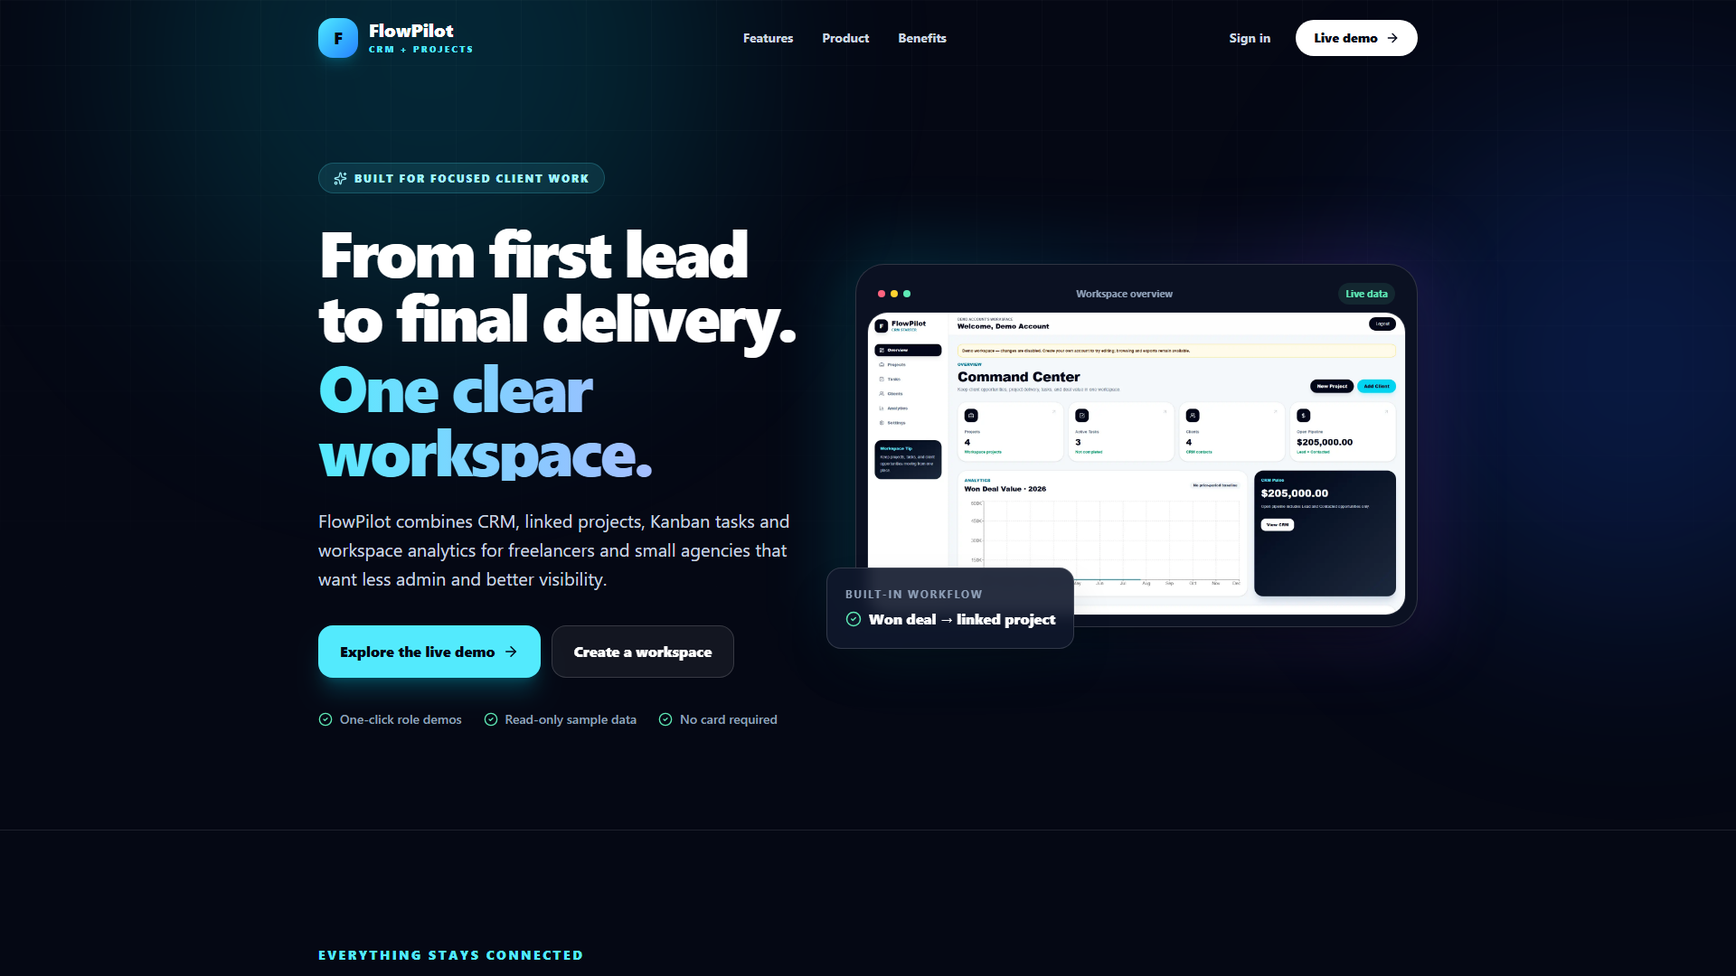
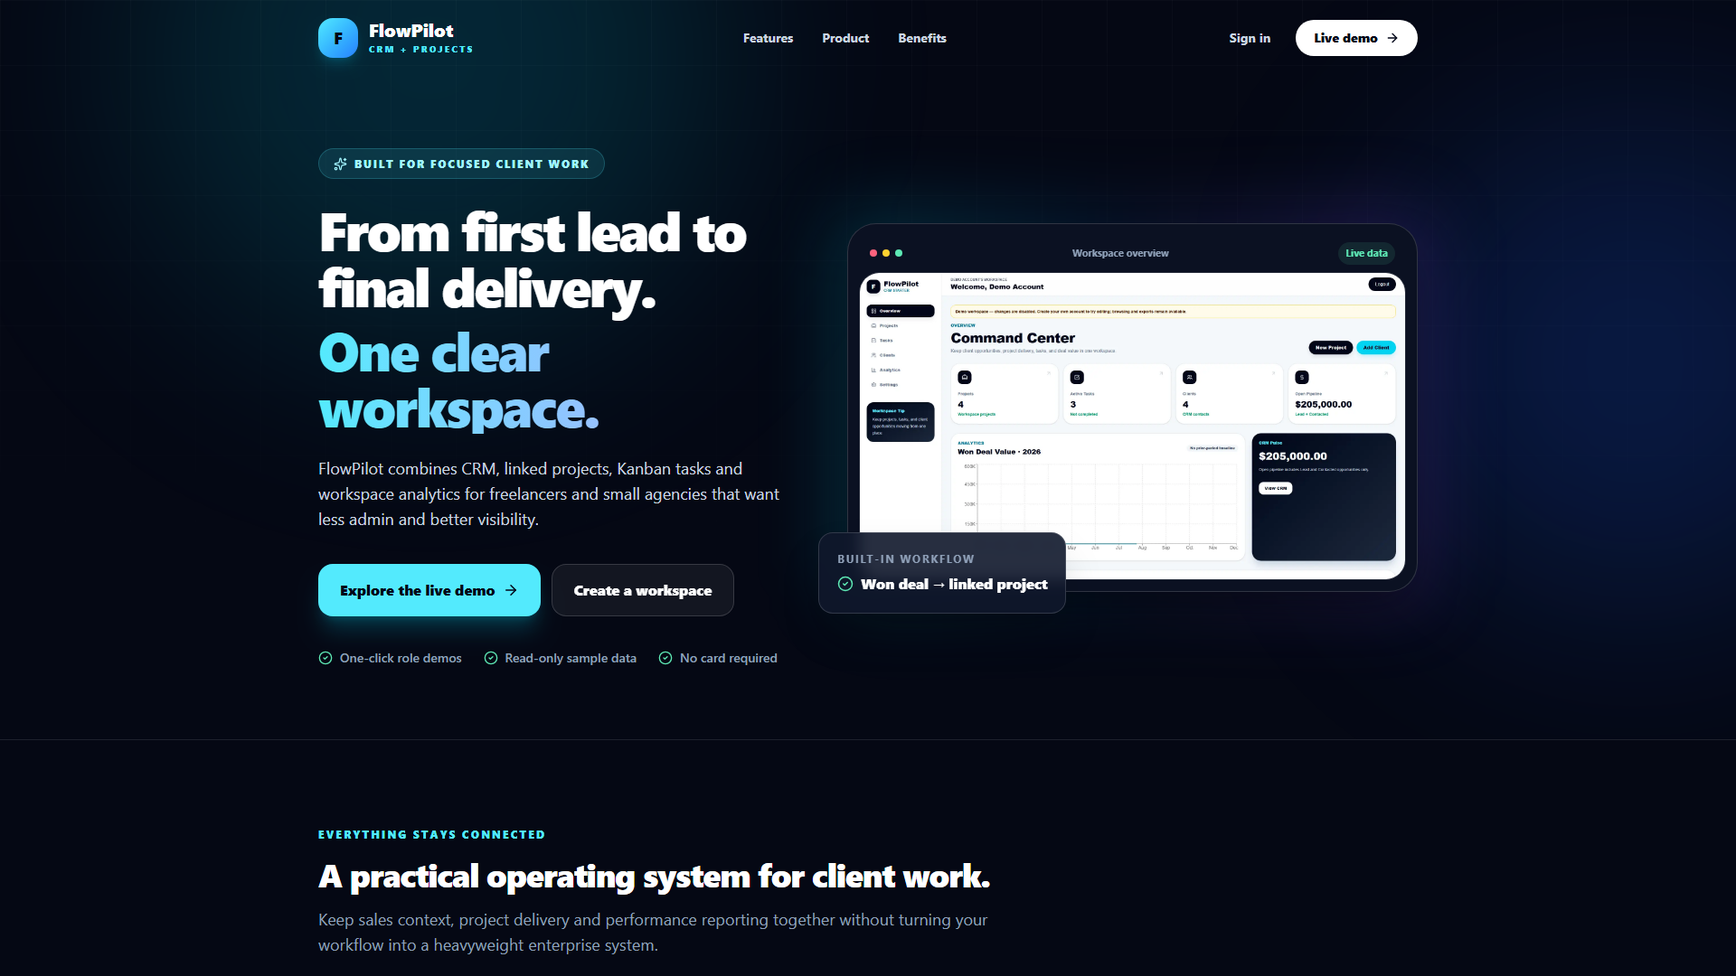
Refine UI density for Vibe96 review

Changed region(s): [[0.1562, 0.1528, 0.8125, 0.7639], [0.1875, 0.8861, 0.5625, 1.0], [0.1875, 0.825, 0.3125, 0.8556]]

diff --git a/src/app/page.tsx b/src/app/page.tsx
@@ -50,11 +50,11 @@ export default function HomePage() {
           </div>
         </header>
 
-        <section className="relative z-10 mx-auto grid max-w-7xl items-center gap-14 px-5 pb-20 pt-14 sm:px-8 sm:pb-28 sm:pt-20 lg:grid-cols-[0.92fr_1.08fr] lg:gap-16 lg:pt-24">
+        <section className="relative z-10 mx-auto grid max-w-7xl items-center gap-10 px-5 pb-16 pt-12 sm:px-8 sm:pb-20 sm:pt-16 lg:grid-cols-[0.92fr_1.08fr] lg:gap-12 lg:pt-20">
           <div>
             <div className="inline-flex items-center gap-2 rounded-full border border-cyan-300/20 bg-cyan-300/10 px-4 py-2 text-xs font-black uppercase tracking-[0.15em] text-cyan-200"><Sparkles size={15} /> Built for focused client work</div>
-            <h1 className="mt-7 max-w-3xl text-5xl font-black leading-[0.98] tracking-[-0.045em] sm:text-6xl lg:text-7xl">From first lead to final delivery.<span className="mt-2 block bg-gradient-to-r from-cyan-300 via-blue-300 to-violet-300 bg-clip-text text-transparent">One clear workspace.</span></h1>
-            <p className="mt-7 max-w-xl text-lg leading-8 text-slate-300 sm:text-xl">FlowPilot combines CRM, linked projects, Kanban tasks and workspace analytics for freelancers and small agencies that want less admin and better visibility.</p>
+            <h1 className="mt-6 max-w-3xl text-4xl font-black leading-[1.04] tracking-[-0.04em] sm:text-5xl lg:text-6xl">From first lead to final delivery.<span className="mt-2 block bg-gradient-to-r from-cyan-300 via-blue-300 to-violet-300 bg-clip-text text-transparent">One clear workspace.</span></h1>
+            <p className="mt-6 max-w-xl text-base leading-7 text-slate-300 sm:text-lg">FlowPilot combines CRM, linked projects, Kanban tasks and workspace analytics for freelancers and small agencies that want less admin and better visibility.</p>
             <div className="mt-9 flex flex-col gap-3 sm:flex-row">
               <Link href="/login" className="inline-flex items-center justify-center gap-2 rounded-2xl bg-cyan-300 px-6 py-4 font-black text-slate-950 shadow-xl shadow-cyan-400/20 transition hover:-translate-y-0.5 hover:bg-cyan-200">Explore the live demo <ArrowRight size={18} /></Link>
               <Link href="/register" className="inline-flex items-center justify-center gap-2 rounded-2xl border border-white/15 bg-white/[0.06] px-6 py-4 font-black text-white backdrop-blur transition hover:border-white/30 hover:bg-white/10">Create a workspace</Link>
@@ -75,18 +75,18 @@ export default function HomePage() {
         </section>
       </div>
 
-      <section id="features" className="mx-auto max-w-7xl px-5 py-24 sm:px-8 sm:py-32">
-        <div className="max-w-3xl"><p className="text-sm font-black uppercase tracking-[0.18em] text-cyan-300">Everything stays connected</p><h2 className="mt-4 text-4xl font-black tracking-[-0.035em] sm:text-5xl">A practical operating system for client work.</h2><p className="mt-5 text-lg leading-8 text-slate-400">Keep sales context, project delivery and performance reporting together without turning your workflow into a heavyweight enterprise system.</p></div>
+      <section id="features" className="mx-auto max-w-7xl px-5 py-20 sm:px-8 sm:py-24">
+        <div className="max-w-3xl"><p className="text-xs font-black uppercase tracking-[0.18em] text-cyan-300">Everything stays connected</p><h2 className="mt-4 text-3xl font-black tracking-[-0.03em] sm:text-4xl">A practical operating system for client work.</h2><p className="mt-4 text-base leading-7 text-slate-400 sm:text-lg">Keep sales context, project delivery and performance reporting together without turning your workflow into a heavyweight enterprise system.</p></div>
         <div className="mt-12 grid gap-4 md:grid-cols-2">
           {features.map(({ title, description, icon: Icon, tone }) => <article key={title} className={`group rounded-[1.75rem] border border-white/10 bg-gradient-to-br ${tone} p-7 transition hover:-translate-y-1 hover:border-white/20 sm:p-8`}><span className="grid size-12 place-items-center rounded-2xl border border-white/10 bg-white/10 text-cyan-200"><Icon size={23} /></span><h3 className="mt-7 text-2xl font-black">{title}</h3><p className="mt-3 max-w-xl leading-7 text-slate-300">{description}</p></article>)}
         </div>
       </section>
 
       <section id="product" className="border-y border-white/10 bg-white/[0.025]">
-        <div className="mx-auto grid max-w-7xl items-center gap-14 px-5 py-24 sm:px-8 sm:py-32 lg:grid-cols-[1.1fr_0.9fr]">
+        <div className="mx-auto grid max-w-7xl items-center gap-10 px-5 py-20 sm:px-8 sm:py-24 lg:grid-cols-[1.1fr_0.9fr]">
           <div className="relative"><div className="absolute inset-8 rounded-[3rem] bg-blue-500/20 blur-3xl" /><Image src="/product/crm-pipeline.png" alt="FlowPilot client pipeline with lead, contacted, won and lost stages" width={1920} height={1080} className="relative rounded-[1.75rem] border border-white/15 shadow-2xl shadow-black/40" /></div>
           <div>
-            <p className="text-sm font-black uppercase tracking-[0.18em] text-violet-300">See the full story</p><h2 className="mt-4 text-4xl font-black tracking-[-0.035em] sm:text-5xl">Know what is moving, what is due and what was won.</h2><p className="mt-6 text-lg leading-8 text-slate-400">FlowPilot turns everyday activity into a clear workspace: client status, follow-up dates, project progress, task priority and exact USD reporting.</p>
+            <p className="text-xs font-black uppercase tracking-[0.18em] text-violet-300">See the full story</p><h2 className="mt-4 text-3xl font-black tracking-[-0.03em] sm:text-4xl">Know what is moving, what is due and what was won.</h2><p className="mt-5 text-base leading-7 text-slate-400 sm:text-lg">FlowPilot turns everyday activity into a clear workspace: client status, follow-up dates, project progress, task priority and exact USD reporting.</p>
             <div className="mt-8 grid gap-4 sm:grid-cols-2">
               {[
                 { icon: Layers3, title: "Connected records", text: "Clients, projects and tasks stay linked." },
@@ -99,12 +99,12 @@ export default function HomePage() {
         </div>
       </section>
 
-      <section id="benefits" className="mx-auto grid max-w-7xl gap-14 px-5 py-24 sm:px-8 sm:py-32 lg:grid-cols-2 lg:items-center">
-        <div><p className="text-sm font-black uppercase tracking-[0.18em] text-emerald-300">Built to be useful</p><h2 className="mt-4 text-4xl font-black tracking-[-0.035em] sm:text-5xl">Start with a polished foundation. Keep control of your stack.</h2><p className="mt-6 text-lg leading-8 text-slate-400">Use the included application as your own operating workspace or as a clear foundation for a client-focused product.</p></div>
+      <section id="benefits" className="mx-auto grid max-w-7xl gap-10 px-5 py-20 sm:px-8 sm:py-24 lg:grid-cols-2 lg:items-center">
+        <div><p className="text-xs font-black uppercase tracking-[0.18em] text-emerald-300">Built to be useful</p><h2 className="mt-4 text-3xl font-black tracking-[-0.03em] sm:text-4xl">Start with a polished foundation. Keep control of your stack.</h2><p className="mt-5 text-base leading-7 text-slate-400 sm:text-lg">Use the included application as your own operating workspace or as a clear foundation for a client-focused product.</p></div>
         <div className="rounded-[2rem] border border-white/10 bg-gradient-to-br from-white/[0.08] to-white/[0.025] p-6 sm:p-8"><ul className="grid gap-3 sm:grid-cols-2">{benefits.map((benefit) => <li key={benefit} className="flex gap-3 rounded-2xl border border-white/10 bg-slate-950/35 p-4 text-sm font-semibold leading-6 text-slate-200"><span className="mt-0.5 grid size-5 shrink-0 place-items-center rounded-full bg-emerald-300 text-slate-950"><Check size={13} strokeWidth={3} /></span>{benefit}</li>)}</ul></div>
       </section>
 
-      <section className="px-5 pb-24 sm:px-8 sm:pb-32"><div className="relative mx-auto max-w-7xl overflow-hidden rounded-[2.25rem] border border-cyan-300/20 bg-gradient-to-br from-cyan-300 to-blue-500 px-6 py-14 text-center text-slate-950 shadow-2xl shadow-cyan-950/40 sm:px-12 sm:py-20"><div className="absolute -right-20 -top-32 size-80 rounded-full border-[50px] border-white/15" /><LockKeyhole className="relative mx-auto" size={32} /><h2 className="relative mx-auto mt-5 max-w-3xl text-4xl font-black tracking-[-0.04em] sm:text-5xl">Explore the real product in seconds.</h2><p className="relative mx-auto mt-5 max-w-2xl text-lg font-semibold leading-8 text-slate-900/75">Choose Owner, Admin or Member on the login screen. Every demo is one click and safely read-only.</p><Link href="/login" className="relative mt-8 inline-flex items-center gap-2 rounded-2xl bg-slate-950 px-7 py-4 font-black text-white shadow-xl transition hover:-translate-y-0.5 hover:bg-slate-900">Open live demo <ArrowRight size={18} /></Link></div></section>
+      <section className="px-5 pb-20 sm:px-8 sm:pb-24"><div className="relative mx-auto max-w-7xl overflow-hidden rounded-[2rem] border border-cyan-300/20 bg-gradient-to-br from-cyan-300 to-blue-500 px-6 py-12 text-center text-slate-950 shadow-2xl shadow-cyan-950/40 sm:px-12 sm:py-16"><div className="absolute -right-20 -top-32 size-80 rounded-full border-[50px] border-white/15" /><LockKeyhole className="relative mx-auto" size={28} /><h2 className="relative mx-auto mt-5 max-w-3xl text-3xl font-black tracking-[-0.03em] sm:text-4xl">Explore the real product in seconds.</h2><p className="relative mx-auto mt-4 max-w-2xl text-base font-semibold leading-7 text-slate-900/75 sm:text-lg">Choose Owner, Admin or Member on the login screen. Every demo is one click and safely read-only.</p><Link href="/login" className="relative mt-7 inline-flex items-center gap-2 rounded-2xl bg-slate-950 px-6 py-3.5 text-sm font-black text-white shadow-xl transition hover:-translate-y-0.5 hover:bg-slate-900">Open live demo <ArrowRight size={17} /></Link></div></section>
       <PublicFooter />
     </main>
   );

diff --git a/src/app/(auth)/login/page.tsx b/src/app/(auth)/login/page.tsx
@@ -33,7 +33,7 @@ export default async function LoginPage() {
     <main className="relative min-h-screen overflow-hidden bg-[#050814] px-4 py-5 text-white sm:px-6 sm:py-8 lg:grid lg:grid-cols-[1.08fr_.92fr] lg:items-stretch lg:gap-6 lg:p-6">
       <div className="pointer-events-none absolute left-[-14rem] top-[-14rem] size-[36rem] rounded-full bg-cyan-400/15 blur-[120px]" />
 
-      <section className="relative hidden min-h-[calc(100vh-3rem)] overflow-hidden rounded-[2.5rem] border border-white/10 bg-[radial-gradient(circle_at_15%_20%,rgba(34,211,238,.18),transparent_24rem),radial-gradient(circle_at_90%_80%,rgba(79,70,229,.2),transparent_28rem),linear-gradient(145deg,#0b1125,#080a17)] p-10 lg:flex lg:flex-col lg:justify-between xl:p-14">
+      <section className="relative hidden min-h-[calc(100vh-3rem)] overflow-hidden rounded-[2.25rem] border border-white/10 bg-[radial-gradient(circle_at_15%_20%,rgba(34,211,238,.18),transparent_24rem),radial-gradient(circle_at_90%_80%,rgba(79,70,229,.2),transparent_28rem),linear-gradient(145deg,#0b1125,#080a17)] p-8 lg:flex lg:flex-col lg:justify-between xl:p-10">
         <Link href="/" className="flex items-center gap-3" aria-label="FlowPilot home">
           <span className="grid size-11 place-items-center rounded-2xl bg-gradient-to-br from-cyan-300 to-blue-500 text-lg font-black text-slate-950 shadow-lg shadow-cyan-500/20">F</span>
           <span><span className="block text-xl font-black leading-none">FlowPilot</span><span className="mt-1 block text-[10px] font-black uppercase tracking-[0.22em] text-cyan-300">CRM + Projects</span></span>
@@ -41,7 +41,7 @@ export default async function LoginPage() {
 
         <div className="my-12">
           <p className="text-xs font-black uppercase tracking-[0.2em] text-cyan-300">Explore the real product</p>
-          <h1 className="mt-5 text-5xl font-black leading-[1.02] tracking-[-0.045em] xl:text-6xl">One workspace.<br /><span className="bg-gradient-to-r from-cyan-300 to-violet-300 bg-clip-text text-transparent">Every client workflow.</span></h1>
+          <h1 className="mt-5 text-4xl font-black leading-[1.04] tracking-[-0.04em] xl:text-5xl">One workspace.<br /><span className="bg-gradient-to-r from-cyan-300 to-violet-300 bg-clip-text text-transparent">Every client workflow.</span></h1>
           <p className="mt-6 max-w-xl text-lg leading-8 text-slate-300">Choose a role and step directly into a safe, read-only workspace with realistic projects, tasks, clients and analytics.</p>
 
           <div className="mt-9 grid gap-3 sm:grid-cols-2">
@@ -64,7 +64,7 @@ export default async function LoginPage() {
           <div className="rounded-[2rem] border border-white/10 bg-white/[0.065] p-6 shadow-2xl shadow-black/30 backdrop-blur-2xl sm:p-8">
             <div className="mb-7 text-center">
               <p className="text-xs font-black uppercase tracking-[0.2em] text-cyan-300">Secure workspace access</p>
-              <h2 className="mt-3 text-3xl font-black tracking-tight sm:text-4xl">Welcome to FlowPilot</h2>
+              <h2 className="mt-3 text-2xl font-black tracking-tight sm:text-3xl">Welcome to FlowPilot</h2>
               <p className="mt-3 text-sm text-slate-400">Sign in normally or explore every role instantly.</p>
             </div>
 

diff --git a/src/app/dashboard/clients/page.tsx b/src/app/dashboard/clients/page.tsx
@@ -60,7 +60,7 @@ export default async function ClientsPage({ searchParams }: { searchParams: Prom
           <p className="text-sm font-bold uppercase tracking-wide text-cyan-700">
             CRM
           </p>
-          <h2 className="mt-2 text-3xl font-black tracking-tight text-slate-950 sm:text-4xl">
+          <h2 className="mt-2 text-2xl font-black tracking-tight text-slate-950 sm:text-3xl">
             Client Pipeline
           </h2>
           <p className="mt-2 max-w-2xl text-slate-500">
@@ -72,21 +72,21 @@ export default async function ClientsPage({ searchParams }: { searchParams: Prom
       <section className="mb-8 grid gap-4 md:grid-cols-3">
         <div className="rounded-3xl border border-slate-200 bg-white p-6 shadow-sm">
           <p className="text-sm font-bold text-slate-500">Filtered Clients</p>
-          <p className="mt-3 break-words text-2xl font-black text-slate-950 xl:text-3xl">
+          <p className="mt-3 break-words text-xl font-black text-slate-950 xl:text-2xl">
             {clients.length}
           </p>
         </div>
 
         <div className="rounded-3xl border border-slate-200 bg-white p-6 shadow-sm">
           <p className="text-sm font-bold text-slate-500">Filtered Open Pipeline</p>
-          <p className="mt-3 break-words text-2xl font-black text-slate-950 xl:text-3xl">
+          <p className="mt-3 break-words text-xl font-black text-slate-950 xl:text-2xl">
             {formatMoney(metrics.openPipeline)}
           </p>
         </div>
 
         <div className="rounded-3xl border border-slate-200 bg-white p-6 shadow-sm">
           <p className="text-sm font-bold text-slate-500">Filtered Won Deal Value</p>
-          <p className="mt-3 break-words text-2xl font-black text-slate-950 xl:text-3xl">
+          <p className="mt-3 break-words text-xl font-black text-slate-950 xl:text-2xl">
             {formatMoney(metrics.wonDealValue)}
           </p>
         </div>

diff --git a/src/app/dashboard/projects/[projectId]/page.tsx b/src/app/dashboard/projects/[projectId]/page.tsx
@@ -112,7 +112,7 @@ export default async function ProjectDetailsPage({
               {project.status}
             </span>
 
-            <h2 className="mt-4 break-words text-3xl font-black tracking-tight text-slate-950 sm:text-4xl">
+            <h2 className="mt-4 break-words text-2xl font-black tracking-tight text-slate-950 sm:text-3xl">
               {project.name}
             </h2>
 
@@ -124,21 +124,21 @@ export default async function ProjectDetailsPage({
             <div className="mt-8 grid gap-4 md:grid-cols-3">
               <div className="rounded-3xl bg-slate-50 p-5">
                 <p className="text-sm font-bold text-slate-500">Total Tasks</p>
-                <p className="mt-2 text-3xl font-black text-slate-950">
+                <p className="mt-2 text-2xl font-black text-slate-950">
                   {project.tasks.length}
                 </p>
               </div>
 
               <div className="rounded-3xl bg-slate-50 p-5">
                 <p className="text-sm font-bold text-slate-500">Completed</p>
-                <p className="mt-2 text-3xl font-black text-slate-950">
+                <p className="mt-2 text-2xl font-black text-slate-950">
                   {doneTasks}
                 </p>
               </div>
 
               <div className="rounded-3xl bg-slate-50 p-5">
                 <p className="text-sm font-bold text-slate-500">Progress</p>
-                <p className="mt-2 text-3xl font-black text-slate-950">
+                <p className="mt-2 text-2xl font-black text-slate-950">
                   {progress}%
                 </p>
               </div>

diff --git a/src/app/dashboard/page.tsx b/src/app/dashboard/page.tsx
@@ -72,7 +72,7 @@ export default async function DashboardPage() {
           <p className="text-sm font-black uppercase tracking-wide text-cyan-700">
             Overview
           </p>
-          <h2 className="mt-2 text-3xl font-black tracking-tight text-slate-950 sm:text-4xl lg:text-5xl">
+          <h2 className="mt-2 text-2xl font-black tracking-tight text-slate-950 sm:text-3xl lg:text-4xl">
             Command Center
           </h2>
           <p className="mt-3 max-w-2xl text-slate-500">
@@ -117,7 +117,7 @@ export default async function DashboardPage() {
               <p className="mt-6 text-sm font-bold text-slate-500">
                 {stat.label}
               </p>
-              <p className="mt-2 break-words text-xl font-black text-slate-950 sm:text-2xl 2xl:text-3xl">
+              <p className="mt-2 break-words text-xl font-black text-slate-950 sm:text-2xl">
                 {stat.value}
               </p>
               <p className="mt-2 text-sm font-bold text-emerald-600">
@@ -149,7 +149,7 @@ export default async function DashboardPage() {
 
         <div className="rounded-[2rem] bg-gradient-to-br from-slate-950 to-slate-800 p-6 text-white shadow-xl shadow-slate-300">
           <p className="text-sm font-black text-cyan-300">CRM Pulse</p>
-          <h3 className="mt-4 break-words text-2xl font-black sm:text-3xl 2xl:text-4xl">
+          <h3 className="mt-4 break-words text-2xl font-black sm:text-3xl">
             {formatMoney(crmMetrics.openPipeline)}
           </h3>
           <p className="mt-4 text-sm leading-6 text-slate-300">

diff --git a/src/app/dashboard/clients/[clientId]/page.tsx b/src/app/dashboard/clients/[clientId]/page.tsx
@@ -44,7 +44,7 @@ export default async function ClientDetailsPage({ params }: { params: Promise<{ 
       <Link href="/dashboard/clients" className="inline-flex rounded-full border border-slate-200 bg-white px-4 py-2 text-sm font-bold">← Back to Clients</Link>
       <section className="rounded-3xl border border-slate-200 bg-white p-6 shadow-sm">
         <div className="flex flex-col gap-4 sm:flex-row sm:items-start sm:justify-between">
-          <div><p className="text-sm font-black uppercase text-cyan-700">{client.status}</p><h2 className="mt-2 text-3xl font-black">{client.name}</h2><p className="mt-2 text-slate-600">{client.company || "No company"} · {client.email || "No email"}</p></div>
+          <div><p className="text-xs font-black uppercase tracking-wide text-cyan-700">{client.status}</p><h2 className="mt-2 text-2xl font-black sm:text-3xl">{client.name}</h2><p className="mt-2 text-sm text-slate-600 sm:text-base">{client.company || "No company"} · {client.email || "No email"}</p></div>
           <p className="text-2xl font-black">{formatMoney(centsToDollars(getDealValueCents(client)))}</p>
         </div>
         <p className="mt-4 text-sm font-bold text-slate-600">Next follow-up: {client.nextFollowUp ? client.nextFollowUp.toISOString().slice(0, 10) + " (UTC date)" : "Not scheduled"}</p>

diff --git a/src/app/dashboard/settings/page.tsx b/src/app/dashboard/settings/page.tsx
@@ -159,7 +159,7 @@ export default async function SettingsPage() {
         <p className="text-sm font-black uppercase tracking-wide text-cyan-700">
           Settings
         </p>
-        <h2 className="mt-2 text-3xl font-black tracking-tight text-slate-950 sm:text-4xl lg:text-5xl">
+        <h2 className="mt-2 text-2xl font-black tracking-tight text-slate-950 sm:text-3xl lg:text-4xl">
           Workspace Settings
         </h2>
         <p className="mt-3 max-w-2xl text-slate-500">
@@ -183,7 +183,7 @@ export default async function SettingsPage() {
               <p className="mt-6 text-sm font-bold text-slate-500">
                 {stat.label}
               </p>
-              <p className="mt-2 text-3xl font-black text-slate-950">
+              <p className="mt-2 text-2xl font-black text-slate-950">
                 {stat.value}
               </p>
             </div>

diff --git a/src/app/dashboard/layout.tsx b/src/app/dashboard/layout.tsx
@@ -57,7 +57,7 @@ export default async function DashboardLayout({
             </div>
           </header>
 
-          <main className="mx-auto w-full max-w-[1600px] min-w-0 p-3 sm:p-5 lg:p-8 xl:p-10">
+          <main className="mx-auto w-full max-w-[1600px] min-w-0 p-3 sm:p-5 lg:p-7 xl:p-8">
             {demoReadOnly ? (
               <div role="status" className="mb-4 rounded-2xl border border-amber-300 bg-amber-50 px-4 py-3 text-sm font-bold text-amber-950">
                 Demo workspace — changes are disabled. Create your own account to try editing; browsing and exports remain available.

diff --git a/src/app/dashboard/projects/page.tsx b/src/app/dashboard/projects/page.tsx
@@ -47,7 +47,7 @@ export default async function ProjectsPage({ searchParams }: { searchParams: Pro
           <p className="text-sm font-bold uppercase tracking-wide text-cyan-700">
             Projects
           </p>
-          <h2 className="mt-2 text-3xl font-black tracking-tight text-slate-950 sm:text-4xl">
+          <h2 className="mt-2 text-2xl font-black tracking-tight text-slate-950 sm:text-3xl">
             Manage Projects
           </h2>
           <p className="mt-2 max-w-2xl text-slate-500">

diff --git a/src/app/dashboard/analytics/page.tsx b/src/app/dashboard/analytics/page.tsx
@@ -24,7 +24,7 @@ export default async function AnalyticsPage({ searchParams }: { searchParams: Pr
         <p className="text-sm font-black uppercase tracking-wide text-cyan-700">
           Analytics
         </p>
-        <h2 className="mt-2 text-3xl font-black tracking-tight text-slate-950 sm:text-4xl">
+        <h2 className="mt-2 text-2xl font-black tracking-tight text-slate-950 sm:text-3xl">
           Business Insights
         </h2>
         <p className="mt-2 max-w-2xl text-slate-500">

diff --git a/src/app/dashboard/tasks/page.tsx b/src/app/dashboard/tasks/page.tsx
@@ -52,7 +52,7 @@ export default async function TasksPage({ searchParams }: { searchParams: Promis
         <p className="text-sm font-bold uppercase tracking-wide text-cyan-700">
           Tasks
         </p>
-        <h2 className="mt-2 text-3xl font-black tracking-tight text-slate-950 sm:text-4xl">
+        <h2 className="mt-2 text-2xl font-black tracking-tight text-slate-950 sm:text-3xl">
           Workspace Kanban
         </h2>
         <p className="mt-2 max-w-2xl text-slate-500">

diff --git a/src/lib/version.ts b/src/lib/version.ts
@@ -1,1 +1,1 @@
-export const APP_VERSION = "1.5.6";
+export const APP_VERSION = "1.5.7";
